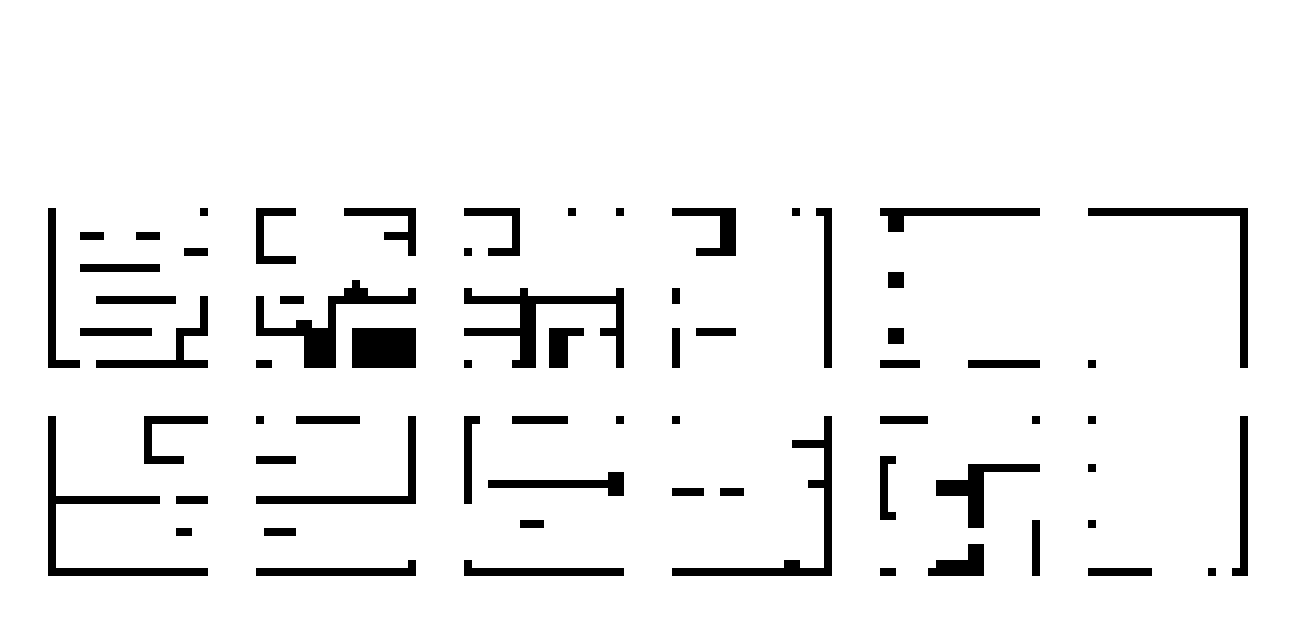
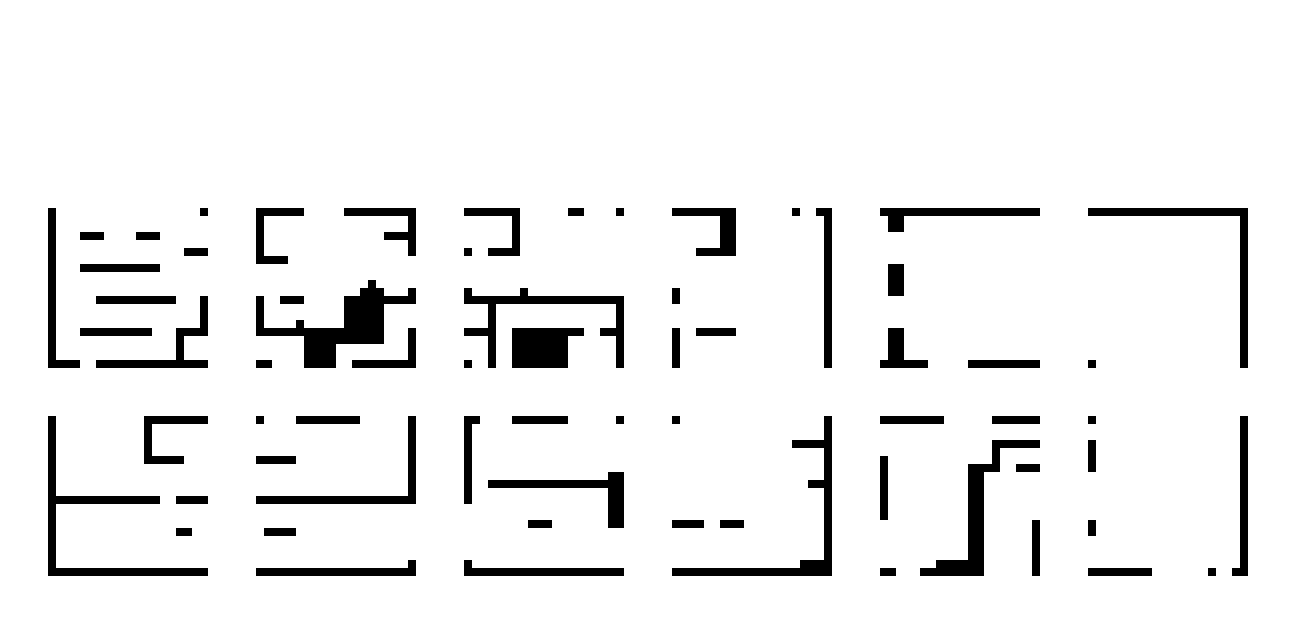
ombre sur la fin

diff --git a/src/Graph/ScenesMapping.cpp b/src/Graph/ScenesMapping.cpp
@@ -50,7 +50,6 @@ void Scene1::draw()
     
     fboFace.begin();
     ofClear(0,0,0,0);
-    //ofBackground(ofColor::black);
     ofPushMatrix();
     ofTranslate(light->getPositionTranform().x - 256/2, light->getPositionTranform().y-256/2);
     fboFaceShadow.draw(0, 0);
@@ -58,7 +57,6 @@ void Scene1::draw()
     glEnable(GL_BLEND);
     glBlendFunc(GL_ONE, GL_ZERO);
     faceToLayer(1,1);
-    
     ofEnableBlendMode(OF_BLENDMODE_ALPHA);
     if (sprites->at(2)->isActif()) {
         fillMatrix(sprites->at(2));
@@ -83,16 +81,14 @@ void Scene1::draw()
     }
     
 
-
-
     background.draw(0, 0);
     
     ofSetColor(ofColor::white);
     
     for (int i=1; i<nbLayer; ++i) {
-        //layer[i].draw(0, 0);
+        layer[i].draw(0, 0);
     }
-    layer[1].draw(0, 0);
+    //layer[1].draw(0, 0);
 
     //layer[2].draw(0, 0);
     
@@ -149,30 +145,20 @@ void Scene1::fillMatrix(SpriteObj *_sprite)
 }
 void Scene1::faceToLayer(int _layer, int mode)
 {
-    int i = _layer;
-    ofTexture tempTexture;
-    if (_layer == 1) {
-        tempTexture = layer[_layer].getTexture();
-        //layer[_layer].begin();
-        //ofClear(0, 0, 0, 0);
-        //layer[_layer].end();
-    }
-    layer[i].begin();
+
+    layer[_layer].begin();
     //ofSetColor(ofColor::white);
     ShaderFaceToLayer.begin();
     ShaderFaceToLayer.setUniform1i("mode", mode);
     ShaderFaceToLayer.setUniformTexture("u_texture", fboFace.getTexture(), 0);
-    ShaderFaceToLayer.setUniformTexture("u_texture_src", tempTexture, 1);
+    ShaderFaceToLayer.setUniformTexture("u_texture_src", layer[_layer].getTexture(), 1);
     ShaderFaceToLayer.setUniformMatrix3f("matrixX", matrix[0]);
     ShaderFaceToLayer.setUniformMatrix3f("matrixY", matrix[1]);
     ShaderFaceToLayer.setUniformMatrix3f("matrixR", matrix[2]);
     ofDrawRectangle(ofPoint(0,0), layer[_layer].getWidth(), layer[_layer].getHeight());
     ShaderFaceToLayer.end();
-    layer[i].end();
+    layer[_layer].end();
     
-    if (_layer == 1) {
-        
-    }
 }
 void Scene1::layerToFace(int _layer)
 {

diff --git a/src/Graph/Light.h b/src/Graph/Light.h
@@ -148,6 +148,7 @@ public:
 
         end->begin();
         ofClear(0, 0, 0);
+        ofBackground(ofColor::black); // bug de la ligne
 
         glEnable(GL_BLEND);
         glBlendFunc(GL_ONE, GL_ONE);
@@ -163,10 +164,8 @@ public:
             ofTranslate(-light->getPositionTranform().x + (width / 2), - light->getPositionTranform().y + (width / 2));
             //ofTranslate((width/2)-light.pos.x, (height/2)-light.pos.y);
              
-             
              callRenderRunction(); // image occuders
            
-             
              ofPopMatrix();
             //occludersShader.end();
             occludersFBOPlaform.end();

diff --git a/src/Sprite.cpp b/src/Sprite.cpp
@@ -30,7 +30,7 @@ void AvatarDef::draw(){
     temp.setFromCenter(160*3/2, 160*3/2, 12, 12);
     ofVec2f tempP = getPositionTranform();
     temp.setFromCenter(tempP.x, tempP.y, 12, 12);
-    ofSetColor(ofColor::black);
+    ofSetColor(ofColor::orange);
     ofDrawRectangle(temp);
     ofSetColor(ofColor::white);
 }
@@ -107,7 +107,7 @@ void ObjPickupDef::create(){
     world->createPickUp(this);
 }
 bool ObjPickupDef::getViewPoint(){
-    pkup->viewPoint;
+    return pkup->viewPoint;
 }
 
 ofVec2f ObjMushroomDef::getPositionTranform(){

diff --git a/src/Sprite.h b/src/Sprite.h
@@ -49,7 +49,9 @@ public:
     virtual void reset(){};
     virtual bool isActif(){};
     virtual void setFilter( b2Filter filter){};
-    virtual b2Filter getFilter(){};
+    virtual b2Filter getFilter(){
+        b2Filter temp;
+        return temp;};
     virtual bool getViewPoint(){};
 
     int layer,layerIni;
